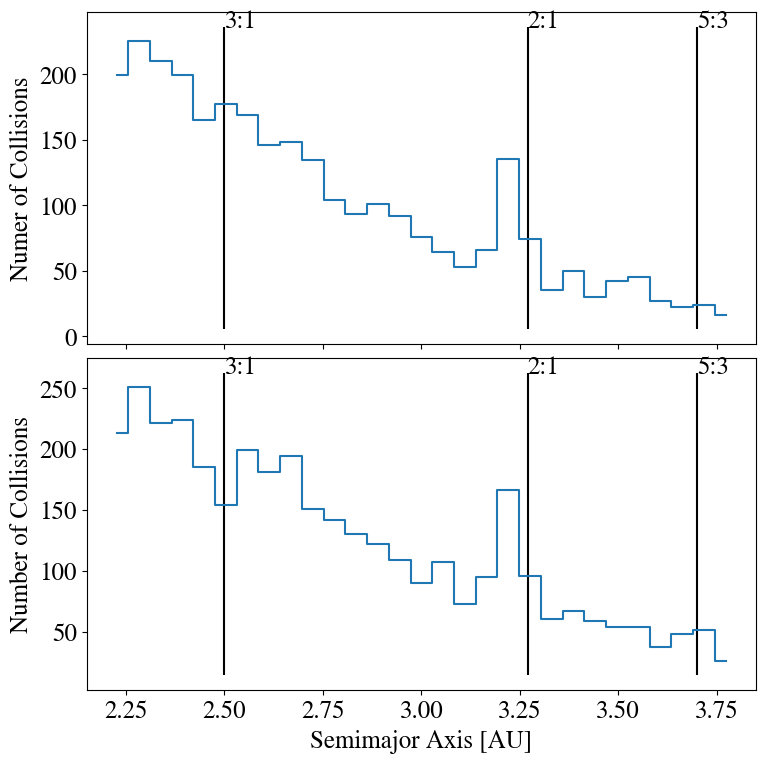
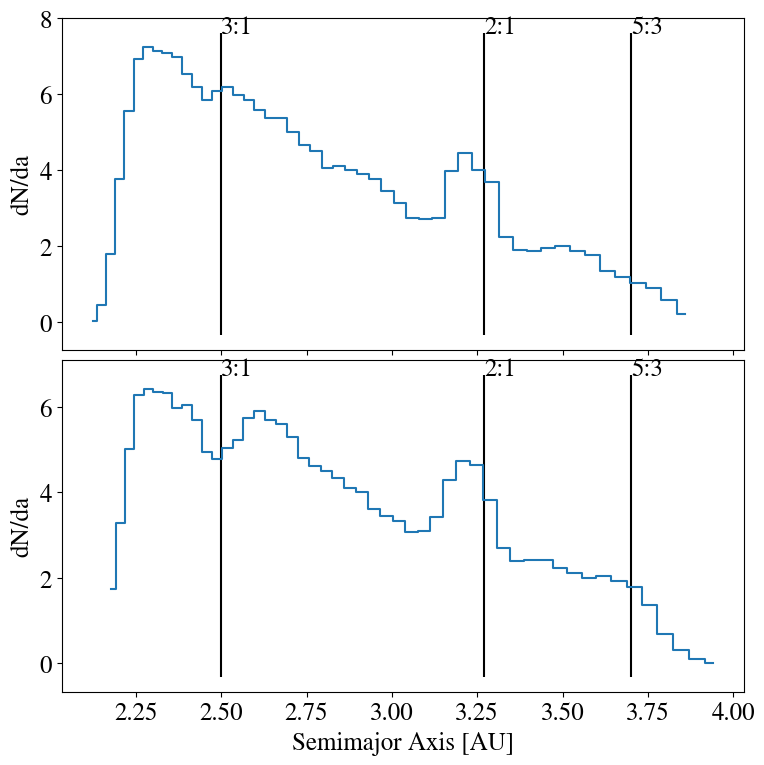
Update text and figures

diff --git a/main.tex b/main.tex
@@ -74,7 +74,7 @@ the evolution of a planetesimal disk under the gravitational influence of an ext
 
 \section{Overview of Relavant Dynamics} \label{sec:dynamics}
 
-\subsection{Collisions}
+\subsection{Collision Rates of Massive Bodies}
 
 We begin by making the assumption that a typical encounter between planetesimals in a disk is well-described by two-body 
 dynamics. So long as the random velocities of planetesimals $v_{p}$ are large compared to the Hill velocity of a planetesimal $v_{h} 
@@ -85,15 +85,18 @@ can be safely ignored. In this case and assuming equal mass bodies, the collisio
 	\sigma v = \pi r_{p}^2 \left( 1 + v_{esc}^2/v_{p}^2 \right) v_{p},
 \end{equation}
 
-\noindent where $r_{p}$ is the radius of a planetesimal and $v_{esc}$ is the mutual escape velocity of two planetesimals in contact. 
-The $v_{esc}^2/v_{p}^2$ term describes the factor above which the collision cross section is enhanced due to gravitational focusing. 
-For a dynamically cold planetesimal disk, $v_{p}$ is small relative to $v_{esc}$ and the collision rate becomes strongly enhanced.
+\noindent where $r_{p}$ is the radius of a planetesimal, $v_{esc}$ is the mutual escape velocity of two planetesimals in contact and 
+$v_{p}$ is the typical encounter velocity between planetesimals. The $v_{esc}^2/v_{p}^2$ term describes the factor above which the 
+collision cross section is enhanced due to gravitational focusing. For a dynamically cold planetesimal disk, $v_{p}$ is small relative to 
+$v_{esc}$ and the collision rate becomes strongly enhanced.
 
-In the absence of a proper treatment of collision detection, equation \ref{eq:safronov} can be used to make a local estimate of the 
-collision rate in an N-body simulation using only the positions and velocities of particles. This has been done in other studies 
+In the absence of collision detection, equation \ref{eq:safronov} can be used to make a local estimate of the 
+collision rate in an N-body simulation using only the positions, velocities and masses of particles. This has been done in other studies 
 \citep{2017ApJ...850..103B} (any other examples?), but requires bulk averaging of the phase space properties of particles, which 
-may mask important information and blur out features. We will revisit equation \ref{eq:safronov} in section \ref{sec:results} to test 
-how well the collision rate near mean motion resonances is described by this framework.
+may mask important information and blur out features. As we will show in section \ref{sec:results}, the complex dynamical behavior of 
+planetesimals near mean-motion resonance makes it difficult to represent the typical encounter velocity $v_{p}$ with a single value. We will 
+revisit equation \ref{eq:safronov} in section \ref{sec:results} to test how well the collision rate near mean-motion resonances is described by 
+this framework.
 
 \subsection{Secular Forcing}\label{sec:sec_force}
 
@@ -113,8 +116,7 @@ Laplace coefficient given by \citep{2000ssd..book.....M} as
 	b_{s}^{j}(\alpha) = \frac{1}{2 \pi} \int_{0}^{2 \pi} \frac{cos \, j \theta \, d \theta}{\left( 1 - 2 \alpha \, cos \theta + \alpha^2 \right)^{s}}.
 \end{equation}
 
-Ignoring secular and mean motion resonances, equation \ref{eq:eforced} will completely describe the eccentricities and pericenter 
-orientations of the orbits of the planetesimals. Additional forces due to two-body scattering between planetesimals, along with 
+Without any nearby secular or mean motion resonances, equation \ref{eq:eforced} will completely describe the eccentricities longitude of  pericenter orientations of the planetesimals. Additional forces due to two-body scattering between planetesimals, along with 
 aerodynamic gas drag will add an additional free component to the complex eccentricity, which will be randomly oriented. The 
 magnitude of the free eccentricity describes how dynamically hot the planetesimal disk is and sets the random encounter speeds of 
 planetesimals. When the dynamical excitation of the disk is driven by gravitational stirring, the magnitude of the free eccentricity can 
@@ -139,10 +141,10 @@ by the semi-major axes of the two bodies by
 	\frac{a}{a'} = \left( \frac{p}{p + q} \right)^{2/3}.
 \end{equation}
 
-Under the effect of MMR, a body will undergo oscillations in semi-major axis and eccentricity. So long as the gravitational force on 
-the body is dominated by the central star and the perturbing body, the amplitude of the oscillations in semi-major axis can be 
-described using the pendulum approximation (see equation 8.76 in \citet{2000ssd..book.....M}). This amplitude can be thought of 
-as the 'width' over which the perturbations of the resonance are effective. Variations in eccentricity follow the semi-major axis 
+Under the effect of MMR, a body will undergo oscillations in semi-major axis and eccentricity. For sufficiently small perturbations,
+the amplitude of the oscillations in semi-major axis can be 
+described using the pendulum approximation (see equation 8.58 and 8.76 in \citet{2000ssd..book.....M}). This amplitude can be thought of 
+as the 'width' over which resonant perturbations are effective. Changes in eccentricity are correlated with changes in semi-major axis 
 variations according to the Tisserand relation
 
 \begin{equation}\label{eq:tiss}
@@ -150,13 +152,13 @@ variations according to the Tisserand relation
 \end{equation}
 
 The net result of this is that isolated MMRs will produce 'spikes' in the semi-major axis vs eccentricity distribution of a planetesimal 
-disk. Following equation \ref{eq:tiss}, these spikes will tend to slightly curve away from the perturbing body. As planetesimals 
-undergo two-body scattering events with other bodies, the variations in semi-major axis and eccentricity due to resonances can 
-become permanent. This tends to lower the surface density of the disk near the locations of resonances, while producing a pileup of 
-eccentric bodies adjacent to the MMR. The enhanced surface density will increase the collision rate, while the large eccentricity 
-dispersion will lower it due to the decreased effectiveness of gravitational focusing. Due to these competing effects, along with the 
-complicated dynamics that are likely at play near the edge of the resonant region, we turn to a direct N-body treatment to better 
-understand how the collision rate varies in the vicinity of a MMR.
+disk. Following equation \ref{eq:tiss}, these spikes will tend to slightly curve away from the perturbing body. This tends to lower the surface 
+density of the disk near the locations of resonances, while producing a pileup of bodies on eccentric orbits adjacent to the MMR. The 
+enhanced surface density will increase the collision rate, while the larger eccentricites will lower it due to the decreased effectiveness of 
+gravitational focusing. In addition, the MMRs will drive fast precession of the orbiting planetesimals, which effectively randomizes their 
+longitudes of perihelion. In the case of a secularly forced disk, there will be an interface between aligned and randomly oriented orbits at 
+the edge of the resonance. Due to the complicated dynamics that are likely at play near the edge of the resonant region, we turn to a direct 
+N-body treatment to better understand how the collision rate varies in the vicinity of a MMR.
 
 \section{Simulations} \label{sec:sims}
 
@@ -211,7 +213,7 @@ the inner edge of the planetesimal disk. From numerical tests with {\sc ChaNGa},
 the symplectic nature of the integration without being too computationally expensive. Although using $\Delta T$ = 0.01 yr keeps the 
 integration symplectic, we find that a small amount of artificial precession is produced, which is particularly noticable in the EJ 
 simulation. We reduce the base time step size by an additional factor of 4 to the keep longitude of perihelia of planetesimals near the 
-inner edge of the disk from drifting too far over the course of our integration.
+inner edge of the disk from drifting too far over the course of our integrations.
 
 An additional timescale is set by the dynamical time of the planetesimals ($\sim 1/\sqrt{G \rho}$), which is about 45 minutes. To 
 resolve the base time step and the dynamical timescale of planetesimals simultaneously, we use a two-tiered time stepping scheme. 
@@ -222,39 +224,40 @@ the gravitational interactions between any bodies that undergo a close encounter
 reducing the effectiveness of gravitational focusing, while minimizing the additional computational expense.
 
 \begin{figure*}
-    \includegraphics[width=\textwidth]{figures/rtheta.png}
-    \caption{Caption goes here.\label{fig:rtheta}}
+    \includegraphics[width=\textwidth]{figures/xy.png}
+    \caption{Caption goes here.\label{fig:xy}}
 \end{figure*}
 
 \begin{figure}
-    \includegraphics[width=\columnwidth]{figures/ae.png}
+    \begin{center}
+    \includegraphics[width=0.4\columnwidth]{figures/ae.png}
     \caption{Caption goes here.\label{fig:ae}}
+    \end{center}
 \end{figure}
 
 \begin{figure}
-    \includegraphics[width=\columnwidth]{figures/long_ph.png}
+    \begin{center}
+    \includegraphics[width=0.4\columnwidth]{figures/long_ph.png}
     \caption{Caption goes here.\label{fig:long_ph}}
+    \end{center}
 \end{figure}
 
 \begin{figure}
-    \includegraphics[width=\columnwidth]{figures/coll_hist_a.png}
+    \begin{center}
+    \includegraphics[width=0.4\columnwidth]{figures/coll_hist_a.png}
     \caption{Caption goes here.\label{fig:coll_hist_a}}
+    \end{center}
 \end{figure}
-
-\begin{figure*}
-    \includegraphics[width=\textwidth]{figures/coll_hist_r.png}
-    \caption{Caption goes here.\label{fig:coll_hist_r}}
-\end{figure*}
 
 \section{Results} \label{sec:results}
 
-We begin by examining the spatial distribution of planetesimals in both simulations. The polar position of the planetesimals at the 
-end of the CJ and EJ simulations are shown in the left and right hand panels of  figure \ref{fig:rtheta}, respectively. Gaps produced by 
-the 3:1, 2:1 and 5:3 MMR with Jupiter are visible in both cases. In the EJ case, a gap in the vicinity of the 5:2 MMR is also visible. 
-The non-axisymmetric shape of the gaps reflects the fact that planetesimals in the vicinity of the resonances have been excited onto 
-non-circular orbits. Although the spatial distribution of planetesimals near MMR in debris disks may provide clues to 
-detect unseen planets, we will not focus on this topic here, as it has already been covered in detail by other studies 
-\citep{2016ApJ...818..159T, 2018ApJ...857....3T}.
+We begin by examining the spatial distribution of planetesimals in the CJ and EJ simulations. The cylindrical position of the planetesimals 
+in the the CJ and EJ simulations after 5000 years of integration are shown in the left and right hand panels of  figure \ref{fig:xy}, 
+respectively. In the circular Jupiter case, a gap produced by the 2:1 MMR is visible, while the 3:1 and 5:3 MMR gaps are visible with an 
+eccentric Jupiter. The non-axisymmetric nature of the gaps is due to the fact that planetesimals in the vicinity of the resonances have been 
+excited onto non-circular orbits. Although the spatial distribution of planetesimals near MMR in debris disks may provide clues to detect 
+unseen planets, we will not focus on this topic here, as it has already been covered in detail by other studies \citep{2016ApJ...818..159T, 
+2018ApJ...857....3T}.
 
 The MMRs are most clearly visible when viewing the semimajor axis and eccentricity distribution of the planetesimals. This is shown 
 in figure \ref{fig:ae}. The top panel corresponds to the CJ simulation and the bottom panel corresponds to EJ. The solid vertical lines 
@@ -263,48 +266,44 @@ planetesimals exhibits well-defined spikes which curve slightly inward due to co
 the eccentricity distribution of bodies near resonance extends below the initial forced value. This is a reflection of the fact that these 
 bodies are undergoing libration, which drives periodic oscillations in both semimajor axis and eccentricity. The coupling between 
 these two quantities is described by equation \ref{eq:tiss}. In the EJ simulation, the eccentricity remains enhanced between the 
-MMRs due to the secular forcing by Jupiter. This also has the consequence of making the eccentricity spikes more prominent. The 
-reason for this is that the resonant perturbations scale with the eccentricity of the body in resonance $e$. This scaling is linear for a 
-first order MMR, while the scaling is quadratic for a second order MMR. This results in a greater relative prominence of the features 
-in figure \ref{fig:ae} of the 5:3 and 3:1 MMRs relative to the 2:1 in the EJ simulation.
+MMRs due to the secular forcing by Jupiter. Because the strength of the resonances scales with the initial eccentricity of the planetesimals, 
+the eccentricity spikes are larger in the EJ simulation. Additionally, the relative size of the 3:1 and 5:3 MMR spikes also grows because the 
+strength of a MMR scales as $e^{k}$, where $k$ is the order of the resonance (citation needed).
 
-The MMRs have one important additional effect, which is to drive precession of the longitude of perihelia of planetesimals near 
+The MMRs have one more effect, which is to drive precession of the longitudes of perihelion of planetesimals near 
 resonance. This effect becomes important in the EJ simulation, in which the orbits of bodies are initially aligned with that of Jupiter 
 (see section \ref{sec:sec_force}). As is shown in figure \ref{fig:long_ph}, the strong precession induced by the MMRs overcomes the 
 secular forcing and randomizes the orbital orientations of bodies near the resonances. The dashed horizontal lines in figure 
 \ref{fig:long_ph} indicate the libration width of a planetesimal with an eccentricity of $e_{forced}$ at each resonance, which 
-approximately shows the zone of influence of each MMR. When looking at the collision rates in the disk, this difference in the orbital 
-orientations inside and outside of resonance will have an important effect on the radial structure of the second-generation dust, which 
-will be discussed shortly.  Although this fast precession is also present in the CJ simulation, the longitude of perihelia of 
-planetesimals in the disk exhibit no preferred direction, and so the precession from the MMRs produces no discernible difference in 
-the orbital structure of the disk.
+approximately shows the zone of influence of each MMR. It is important to note that the collision rate predicted by equation
+\ref{eq:safronov} assumes that the orbits of bodies are randomly oriented. Near the interface of the resonances, the N-body collision rate, 
+which we will examine next, is likely not well-described by the Safronov rate.
 
 \subsection{Collision Rates}\label{sec:coll_rates}
 
-The Safronov collision rate given by equation \ref{eq:safronov} can be a viable way to predict the collision rates of planetesimals 
-using only their positions and velocities \citep{2017ApJ...850..103B}, but suffers from some limitations. First, the Safronov collision 
-rate is constructed from the assumption that the planetesimal disk is azimuthally symmetric. This is not the case for the EJ 
-simulation, in which the disk between resonances exhibits a well defined pericenter orientation. Although the strong precession 
-induced by the MMRs does randomize the orientations of orbits near the resonances, the phase space distribution of bodies at the 
-edges of the resonances becomes extremely complex and is best studied using a full N-body treatment. Secondly, as we will show 
-below, the velocity distribution of planetesimals takes on a bimodal distribution near the MMRs. This makes the rms velocity of 
-planetesimals not well-defined and therefore predicting the collision rate using a statistical approach becomes difficult.
+As we have already discussed, the Safronov collision rate given by equation \ref{eq:safronov} suffers from two important limitations. The
+first is that the orbits of colliding bodies exhibit no preferred orientation. Second, as we will show below, the velocities of planetesimals 
+near the MMRs follows a bimodal distribution. This makes it difficult to characterize the planetesimals with a single 'typical' encounter 
+velocity and therefore predicting the collision rate using a statistical approach is far from straightforward.
 
-Figure \ref{fig:coll_hist_a} shows the semimajor axis of collisions resolved in the CJ (top) and EJ simulations (bottom). The 
-'semimajor axis of a collision' is defined as the semimajor axis of the first of the two planetesimals participating in a collision at the 
+Figure \ref{fig:coll_hist_a} shows the semimajor axis of collisions resolved in the CJ (top) and EJ simulations (bottom). We define 
+'semimajor axis of a collision' as the semimajor axis of the first of the two planetesimals participating in a collision at the 
 moment that it happens. To ensure that the definition of the first and second collider chosen by {\sc ChaNGa} does not influence 
 these results, we also tried constructing figure \ref{fig:coll_hist_a} using the second collider and found no qualitative differences. 
 Although both simulations were integrated and collisions were resolved for 5,000 years, we only show collisions that occurred during 
 the last 3,000 years of the simulations. Before this time, the resonant features in the semimajor axis-eccentricity distribution (see 
-figure \ref{fig:ae}) were still developing and had not yet reached a steady state. This results in transient features appearing in the 
-collision profiles early on, which we exclude from figure \ref{fig:coll_hist_a} and all subsequent figures.
+figure \ref{fig:ae}) were still developing and had not yet reached a steady state (the libration timescale of the MMRs we are interested in turns out to be about 2,000 years). This results in transient features appearing in the collision profiles early on, which we exclude from figure \ref{fig:coll_hist_a} and all subsequent figures.
 
-Most notably, the MMRs appear to have a measurable effect on the local collision rates. Slightly interior to the 2:1 resonance, the 
-collision rate increases by a factor of roughly 2. In the EJ simulation, there is a significant deficiency in the number of collisions near 
-the 3:1 MMR. We attribute this to the fact that the strength of a second order MMR scales as $e^{2}$, while a first order MMR scales 
-linearly. Therefore, one would expect the 3:1 resonance to have more of an influence on the collision rate in a secularly perturbed 
-disk. Although viewing the collision rate as a function of semimajor axis allows one to see a clear connection between the 
-resonances and the collision rate, this does not immediately indicate where the dust generated by collisions will end up in the disk.
+We find that the features present in figure \ref{fig:coll_hist_a} are highly sensitive to the choice of binning when constructing a standard histogram and instead model the occurrence of collisions as a function of semimajor axis using a kernel density estimate (KDE). We use the {\sc neighbors.KernelDensity} function from the {\sc sklearn} \citep{scikit-learn} package to construct our KDEs. For our kernel, we use a tophat function with a bandwidth of 0.01 AU.
+
+Most notably, the MMRs appear to have a measurable effect on the local collision rates. This is in contrast to \citet{2000Icar..143...45R}, 
+who simulated a similar setup and found no discernible features near the MMRs. We attribute the difference to a more careful treatment of 
+timestepping in our simulations. Slightly interior to the 2:1 resonance, the collision rate increases by a factor of roughly 2. In the EJ 
+simulation, there is a significant deficiency in the number of collisions near the 3:1 MMR. We attribute this to the fact that the strength of a 
+second order MMR scales as $e^{2}$, while a first order MMR scales linearly with $e$. One would therefore expect the 3:1 resonance to 
+have more of an influence on the collision rate in a secularly perturbed disk. Although viewing the collision rate as a function of semimajor 
+axis demonstrates a clear connection between the resonances and the collision rate, this does not immediately indicate where the dust 
+generated by collisions will end up in the disk.
 
 To construct a radial dust profile, we begin by making the assumption that any dust generated by collisions is strongly coupled to the 
 gas. For a dust grain larger than the mean free path of the gas particles, the timescale to damp its eccentricity is given by 
@@ -318,14 +317,19 @@ where $m$, $e$ and $s$ are the mass, eccentricity and radius of the dust grain. 
 \rho_{g}$ is the local density of the gas and $v_{th}$ is its thermal speed. At 3 AU, the gaseous component of the solar nebula has a 
 density of $4 \times 10^{-10}$ g cm$^{-3}$ and a typical thermal speed of $10^{5}$ cm s$^{-1}$ \citep{1981PThPS..70...35H}. For a 1 
 mm dust grain with a density of 1 g cm$^{-3}$ and an eccentricity of 0.05, the damping timescale is $4 \times 10^{-3}$ years. This is 
-orders of magnitude smaller than the collision timescale, therefore we expect that collisionally generated dust grains will immediately 
+orders of magnitude smaller than the collision timescale, therefore we conclude that collisionally generated dust grains will immediately 
 couple to the gas.
 
-Operating under this assumption, a map of the relative concentration of second-generation dust can be constructed from simply the cylindrical distance at which the collisions occur. This is shown in the top panels of figure \ref{fig:coll_hist_r}, where the left side corresponds to the CJ simulation and the right side corresponds to EJ. As in the semimajor axis projection, features appear near the 2:1 and 3:1 MMRs in both simulations, although the shape of the features are qualitatively different here. Near the 2:1 resonance, the radial collision rate is noticably suppressed. This is mainly due to the reduced surface density of planetesimals near the center of the resonance, shown in the second row of figure \ref{fig:coll_hist_r}. The surface density in the EJ simulation near this resonance is less suppressed than the CJ simulation due to the enhanced eccentricity of planetesimals in the vicinity. This also has the effect of washing out the feature created in the collision rate profile due to the 2:1 MMR.
+Operating under this assumption, a map of the relative concentration of second-generation dust can be constructed from the cylindrical distance at which the collisions occur. This is shown in the top panels of figure \ref{fig:coll_hist_r}, where the left side corresponds to the CJ simulation and the right side corresponds to EJ. As in figure \ref{fig:coll_hist_a}, a kernel density estimate of the number of collisions is constructed using a tophat kernel with a bandwidth of 0.01 AU. Features again appear near the 2:1 and 3:1 MMRs in both simulations, although the shape of the features are qualitatively different from figure \ref{fig:coll_hist_a}. Near the 2:1 resonance, the radial collision rate is noticably suppressed. This is mainly due to the reduced surface density of planetesimals near the center of the resonance, shown in the second row of figure \ref{fig:coll_hist_r}. The surface density in the EJ simulation near this resonance is less suppressed than the CJ simulation due to the enhanced eccentricity of planetesimals in the vicinity. This also has the effect of washing out the feature created in the collision rate profile due to the 2:1 MMR.
 
 Additionally, a sharp, well-defined feature appears just exterior to the 3:1 MMR in the EJ simulation. A corresponding dip in the surface density at this same location suggests that the variation in the collision rate here is due to a lack of planetesimals in this location. Upon closer inspection, we find that the center of this feature lies at a a radial distance of $(1+e_{forced})a_{3:1}$, where $a_{3:1}$ is the nominal location of the 3:1 MMR and $e_{forced}$ is the forced eccentricity of a planetesimal at $a_{3:1}$. This distance corresponds to the aphelion distance of a planetesimal with these orbital parameters. Physically, the drop in the surface density here can be explained as follows: bodies near the 3:1 MMR experience strong precession, which randomizes their orbits and undergo libration which produces a large spread in their relative velocities. For a collection of randomly oriented eccentric orbits, there is less geometric overlap at aphelion, which lowers the surface density at this distance. Given the clear connection between the offset of this feature and the local forced eccentricity, we will examine the feasibility of using this feature to measure the eccentricity of the perturbing planet in section \ref{sec:dust} after we construct a dust emission map from the collision rate profile.
 
 The bottom row of figure \ref{fig:coll_hist_r} demonstrates the difficulty with calculating the collision rate from the position and velocity distribution of particles. Typically, the rms velocity is defined as $\sqrt(\left<e^2\right> + \left<i^2\right>)$. In this case, the wings extending off of the resonances in the distance-eccentricity distribution makes the eccentricity dispersion distinctly bimodal and not well defined at nearly all radial distances. A naive calculation of the Safronov rate here would predict a collision rate near the resonances that is smaller than the actual value.
+
+\begin{figure*}
+    \includegraphics[width=\textwidth]{figures/coll_hist_r.png}
+    \caption{Caption goes here.\label{fig:coll_hist_r}}
+\end{figure*}
 
 %Next, we move on to examine the statistics of the collisions that occur. Figure \ref{fig:coll_hist_a} shows the distribution of semimajor axes of every collision that is resolved. Here, the semimajor axis of a collision is defined as the semimajor axis of the first body participating in the collision at the moment that it occurs. During a collision, the determination of which body is first and which is second is determined by the collision search tree in {\sc ChaNGa}. To ensure that this does not introduce any bias, we also constructed figure \ref{fig:coll_hist_a} using the orbital parameters of the second body and found no qualitative difference. By examining the semimajor axis distribution of the collisions, it is easy to see how the MMRs affect the collision rates. The dashed lines again represent the libration width of each resonance and are meant to show its range of influence. In both the circular and eccentric Jupiter simulations, the collision rate is clearly enhanced interior to the 2:1 MMR. The 3:1 MMR only appears to have a noticeable influence on the collision rate in the EJ simulation. In both cases, although the 5:3 MMR has a clear influence on the on the semimajor-axis eccentricity distribution, it does not leave a measureable imprint on the collision rate. It is important to point out, however, that the libration width of sufficiently eccentric particles near the 5:3 MMR may extend beyond the outer edge of the disk and introduce boundary effects.
 

diff --git a/makeFig.py b/makeFig.py
@@ -32,6 +32,22 @@ res_label = ['3:1', '2:1', '5:3']
 res_p = [1, 1, 3]
 res_q = [2, 1, 2]
 
+# Build a PDF from a series of data points using a KDE
+from sklearn.neighbors import KernelDensity
+def kde(qty, bw=0.01):
+    bins = np.linspace(np.log10(np.min(qty)), np.log10(np.max(qty)))
+    
+    def kde_helper(x, x_grid, **kwargs):
+        kde_skl = KernelDensity(kernel='tophat', bandwidth=bw, **kwargs)
+        kde_skl.fit(x[:, np.newaxis])
+        log_pdf = kde_skl.score_samples(x_grid[:, np.newaxis])
+        return np.exp(log_pdf)
+    
+    pdf = kde_helper(np.log10(qty), bins)
+    cum_df = np.cumsum(pdf[::-1])[::-1]
+    
+    return 10.**bins, pdf
+
 # Width of a resonance with jupiter (in AU)
 # Assume body has an eccentricity of e_forced
 def res_width_jup(p, q):
@@ -113,6 +129,34 @@ r_c, theta_c = np.sqrt(x_c**2 + y_c**2), np.arctan2(y_c, x_c) + np.pi
 x_e, y_e = pl_e['pos'][:,0], pl_e['pos'][:,1]
 r_e, theta_e = np.sqrt(x_e**2 + y_e**2), np.arctan2(y_e, x_e) + np.pi
 
+def make_xy():
+	file_str = 'figures/xy.' + fmt
+	if not clobber and os.path.exists(file_str):
+		return
+
+	# Rotate so that jupiter is at theta =0
+	theta_jup_c = np.arctan2(pl_c['pos'][0][1], pl_c['pos'][0][0])
+	x_c_rot = x_c*np.cos(-theta_jup_c) - y_c*np.sin(-theta_jup_c)
+	y_c_rot = x_c*np.sin(-theta_jup_c) + y_c*np.cos(-theta_jup_c)
+	theta_jup_e = np.arctan2(pl_e['pos'][0][1], pl_e['pos'][0][0])
+	x_e_rot = x_e*np.cos(-theta_jup_e) - y_e*np.sin(-theta_jup_e)
+	y_e_rot = x_e*np.sin(-theta_jup_e) + y_e*np.cos(-theta_jup_e)
+
+	fig, (ax1, ax2) = plt.subplots(figsize=(16,6), nrows=1, ncols=2, sharex=True, sharey=True)
+	ax1.scatter(x_c_rot, y_c_rot, s=s)
+	ax1.scatter(x_c_rot[0], y_c_rot[0], color='r')
+	ax1.set_xlabel('X [AU]')
+	ax1.set_ylabel('Y [AU]')
+	ax1.set_xlim(-5.5, 5.5)
+	ax1.set_ylim(-5.5, 5.5)
+	ax2.scatter(x_e_rot, y_e_rot, s=s)
+	ax2.scatter(x_e_rot[0], y_e_rot[0], color='r')
+	ax2.set_xlabel('X [AU]')
+	ax2.set_ylabel('Y [AU]')
+	plt.savefig(file_str, format=fmt, bbox_inches='tight')
+
+	plt.savefig(file_str, format=fmt, bbox_inches='tight')
+
 def make_rtheta():
 	file_str = 'figures/rtheta.' + fmt
 	if not clobber and os.path.exists(file_str):
@@ -168,20 +212,17 @@ def make_coll_hist_a():
 	if not clobber and os.path.exists(file_str):
 		return
 
-	coll_hist_a_c, coll_bins_a_c = np.histogram(coll_c['a1'], bins=np.linspace(a_in, a_out, num=nbins))
-	coll_bins_a_c = 0.5*(coll_bins_a_c[1:] + coll_bins_a_c[:-1])
-
-	coll_hist_a_e, coll_bins_a_e = np.histogram(coll_e['a1'], bins=np.linspace(a_in, a_out, num=nbins))
-	coll_bins_a_e = 0.5*(coll_bins_a_e[1:] + coll_bins_a_e[:-1])
+	coll_bins_a_c, coll_pdf_a_c = kde(coll_c['a1'])
+	coll_bins_a_e, coll_pdf_a_e = kde(coll_e['a1'])
 
 	fig, (ax1, ax2) = plt.subplots(figsize=(8,8), nrows=2, ncols=1, sharex=True)
-	ax1.plot(coll_bins_a_c, coll_hist_a_c, linestyle='steps-mid')
+	ax1.plot(coll_bins_a_c, coll_pdf_a_c, linestyle='steps-mid')
 	plot_res(ax1, show_widths=False)
-	ax1.set_ylabel('Numer of Collisions')
-	ax2.plot(coll_bins_a_e, coll_hist_a_e, linestyle='steps-mid')
+	ax1.set_ylabel('dN/da')
+	ax2.plot(coll_bins_a_e, coll_pdf_a_e, linestyle='steps-mid')
 	plot_res(ax2, show_widths=False)
 	ax2.set_xlabel('Semimajor Axis [AU]')
-	ax2.set_ylabel('Number of Collisions')
+	ax2.set_ylabel('dN/da')
 	# sharey=true hides the tick labels
 	ax2.yaxis.set_tick_params(labelleft=True)
 	plt.tight_layout(h_pad=0)
@@ -193,12 +234,10 @@ def make_coll_hist_r():
 		return
 
 	coll_dist_c1 = np.sqrt(coll_c['x1x']**2 + coll_c['x1y']**2)
-	coll_hist_r_c, coll_bins_r_c = np.histogram(coll_dist_c1, bins=np.linspace(a_in, a_out, num=nbins))
-	coll_bins_r_c = 0.5*(coll_bins_r_c[1:] + coll_bins_r_c[:-1])
+	coll_bins_r_c, coll_pdf_r_c = kde(coll_dist_c1)
 
 	coll_dist_e1 = np.sqrt(coll_e['x1x']**2 + coll_e['x1y']**2)
-	coll_hist_r_e, coll_bins_r_e = np.histogram(coll_dist_e1, bins=np.linspace(a_in, a_out, num=nbins))
-	coll_bins_r_e = 0.5*(coll_bins_r_e[1:] + coll_bins_r_e[:-1])
+	coll_bins_r_e, coll_pdf_r_e = kde(coll_dist_e1)
 
 	p_c = pb.analysis.profile.Profile(pl_c, min=a_in, max=a_out, nbins=nbins)
 	surf_den_c = (p_c['density']*u.M_sun/u.AU**2).to(u.g/u.cm**2)
@@ -206,22 +245,23 @@ def make_coll_hist_r():
 	p_e = pb.analysis.profile.Profile(pl_e, min=a_in, max=a_out, nbins=nbins)
 	surf_den_e = (p_e['density']*u.M_sun/u.AU**2).to(u.g/u.cm**2)
 
-	fig, ax = plt.subplots(figsize=(16,12), nrows=3, ncols=2, sharey=False, sharex=True)
+	fig, ax = plt.subplots(figsize=(16,12), nrows=3, ncols=2, sharey='row', sharex='col')
 	
-	ax[0][0].plot(coll_bins_r_c, coll_hist_r_c, linestyle='steps-mid')
+	ax[0][0].plot(coll_bins_r_c, coll_pdf_r_c, linestyle='steps-mid')
 	plot_res(ax[0][0])
-	ax[0][0].set_ylabel('Numer of Collisions')
+	ax[0][0].set_ylabel('dN/dr')
 	ax[1][0].plot(p_c['rbins'], surf_den_c)
 	ax[1][0].set_ylabel(r'Surface Density [g cm$^{-2}$]')
+	ax[1][0].set_ylim(0.7, 3)
 	ax[2][0].scatter(r_c, pl_c['e'], s=1)
 	ax[2][0].set_ylabel('Eccentricity')
 	ax[2][0].set_xlabel('Heliocentric Distance [AU]')
 	ax[2][0].set_xlim(a_in, a_out)
+	ax[2][0].set_ylim(-0.02, 0.35)
 
-
-	ax[0][1].plot(coll_bins_r_e, coll_hist_r_e, linestyle='steps-mid')
+	ax[0][1].plot(coll_bins_r_e, coll_pdf_r_e, linestyle='steps-mid')
 	plot_res(ax[0][1])
-	ax[0][1].set_ylabel('Numer of Collisions')
+	ax[0][1].set_ylabel('dN/dr')
 	ax[1][1].plot(p_e['rbins'], surf_den_e)
 	ax[1][1].set_ylabel(r'Surface Density [g cm$^{-2}$]')
 	ax[2][1].scatter(r_e, pl_e['e'], s=1)
@@ -283,9 +323,9 @@ def make_m_hist():
 	plt.savefig(file_str, format=fmt, bbox_inches='tight')
 
 
-make_rtheta()
-make_ae()
-make_long_ph()
-make_coll_hist_a()
-make_coll_hist_r()
+#make_xy()
+#make_ae()
+#make_long_ph()
+#make_coll_hist_a()
+#make_coll_hist_r()
 #make_m_hist()
